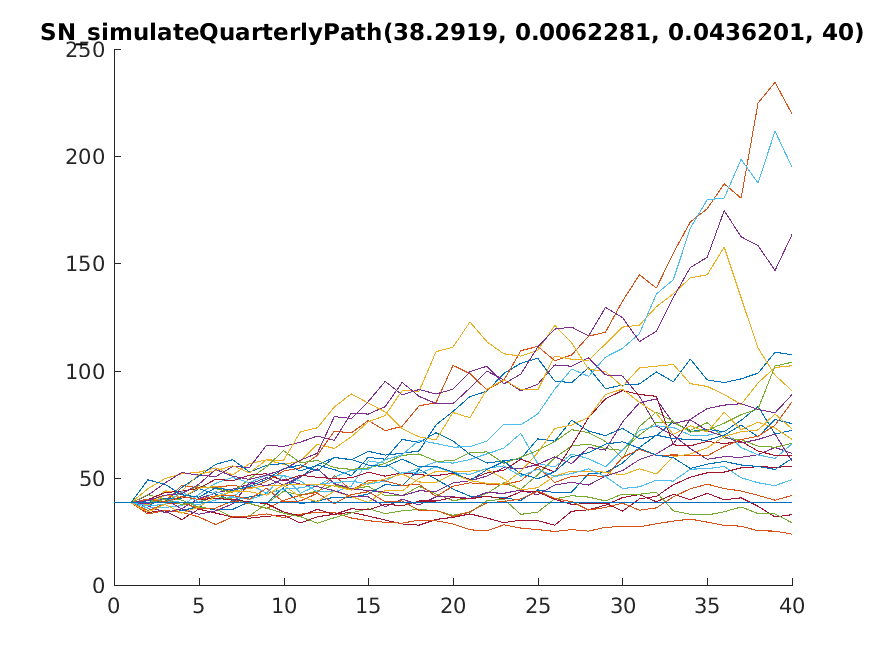
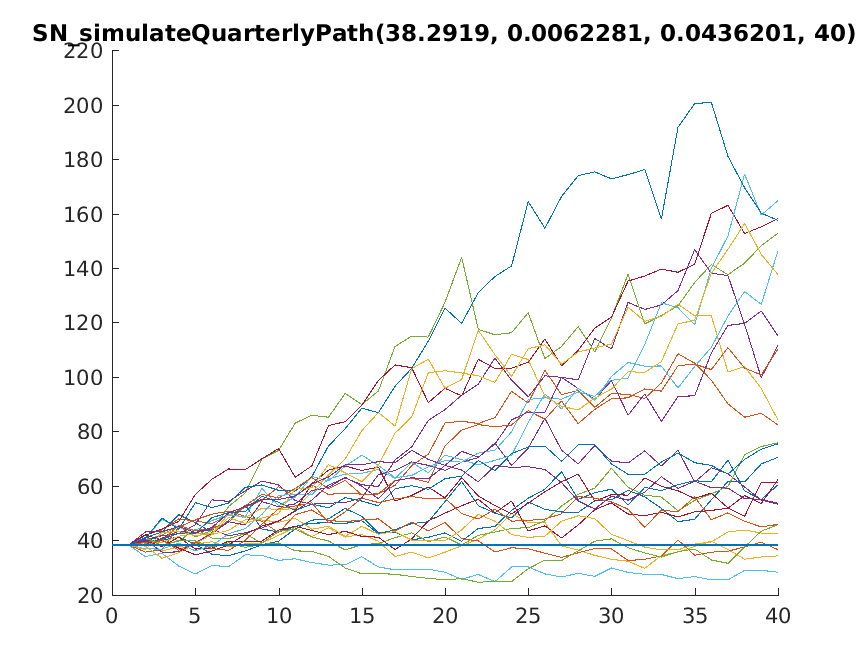
updated simulation functions and ex 13-14

diff --git a/1/compareSavingsAlternatives.m b/1/compareSavingsAlternatives.m
@@ -1,0 +1,37 @@
+function [ savingsYield, yieldFFund, yieldFPension, yieldsFundP, yieldsPensionP ] ...
+          = compareSavingsAlternatives( budget, quartals, N, binWidth, imageName )
+    load('Funds.mat')
+    
+    if exist('S', 'var') == 0
+        error('Price history vector S not found')
+    end
+    
+    savingsRate = 0.03; % 3%
+    [~, savingsYield] = SN_simulateSaving(budget, savingsRate, quartals);
+    sprintf('Spaarrekening rendement: %f', savingsYield)
+
+    yieldFFund = SN_simulateFundInvesting(budget, quartals, S(:,1), N);
+    sprintf('Aandelenonds VTI: min %f, max %f, avg %f', [min(yieldFFund), max(yieldFFund), mean(yieldFFund)])
+    yieldFPension = SN_simulatePensionFundInvesting(budget, quartals, S(:,1), N);
+    sprintf('Pensioenfonds VTI: min %f, max %f, avg %f', [min(yieldFPension), max(yieldFPension), mean(yieldFPension)])
+
+    yieldsFundP = SN_simulateFundInvesting(budget, quartals, S(:,2), N);
+    sprintf('Aandelenonds BNP: min %f, max %f, avg %f', [min(yieldsFundP), max(yieldsFundP), mean(yieldsFundP)])
+    yieldsPensionP = SN_simulatePensionFundInvesting(budget, quartals, S(:,2), N);
+    sprintf('Pensioenfonds BNP: min %f, max %f, avg %f', [min(yieldsPensionP), max(yieldsPensionP), mean(yieldsPensionP)])
+
+    fig = figure; hold all;
+    %binWidth = 0.02*max(max(yieldsPensionF), max(yieldsPensionP));
+    histogram(yieldFFund, 'BinWidth', binWidth, 'Normalization', 'probability');
+    histogram(yieldsFundP, 'BinWidth', binWidth, 'Normalization', 'probability');
+    legend('VTI Aandelen', 'BNP Aandelen');
+    saveas(fig, strcat(imageName, '-fund.png'));
+
+    fig = figure; hold all;
+    %binWidth = 0.02*max(max(yieldsPensionF), max(yieldsPensionP));
+    histogram(yieldFPension, 'BinWidth', binWidth, 'Normalization', 'probability');
+    histogram(yieldsPensionP, 'BinWidth', binWidth, 'Normalization', 'probability');
+    legend('VTI Pensioen', 'BNP Pensioen');
+    saveas(fig, strcat(imageName, '-pension.png'));
+end
+

diff --git a/1/SN_simulatePensionFundInvesting.m b/1/SN_simulatePensionFundInvesting.m
@@ -1,9 +1,9 @@
 function [ yields ] = SN_simulatePensionFundInvesting(budget, quartals, historicalPrice, N)
 % Monte Carlo simulation of periodical investments in a pension fund  
-
+    
     % estimate parameters of evolution of fund worth
     [mu, sigma] = SN_estimateParameters(historicalPrice);
-    yields = zeros(N, 1);
+    yields = zeros(quartals, 1);
     
     for q = 1:N
         % simulate path for worth of fund
@@ -11,7 +11,6 @@ function [ yields ] = SN_simulatePensionFundInvesting(budget, quartals, historic
         
         % simulate yield of investing in the fund
         [~, yield] = SN_simulatePensionFundInvestingPath(budget, pricePath, quartals);
-        
         yields(q) = yield;
     end
 end

diff --git a/1/SN_simulateFundInvestingPath.m b/1/SN_simulateFundInvestingPath.m
@@ -17,7 +17,7 @@ function [ path, yield ] = SN_simulateFundInvestingPath( budget, pricePath, quar
      
     for q = 2:quartals
         % each quartal, receive dividents on last quartal
-        dividend = pricePath(q-1) * quarterlyDividentYieldNet; 
+        dividend = path(q-1) * pricePath(q-1) * quarterlyDividentYieldNet; 
         
         % calculate net budget to buy shares
         budgetNet = (budget-transactionCosts) * (1-stockMarketTax);

diff --git a/1/ex15.m b/1/ex15.m
@@ -1,0 +1,9 @@
+% Simuleer het rendement voor elk van de 3 scenario’s na 40, 80, 120 en 160 kwartalen 
+% wanneer je spaarbudget steeds (250 + x) euro per kwartaal bedraagt, waarbij x de laatste 3 cijfers van je studentennummer zijn.
+
+close all;
+x = 689;
+
+for q = 40:40:160
+    compareSavingsAlternatives(250+x, q, 1000, 0.05, strcat('ex15-', q, '-quartals-'));
+end

diff --git a/1/ex14.m b/1/ex14.m
@@ -1,0 +1,9 @@
+% Simuleer het rendement voor elk van de 3 scenario's na 4 · (60 − x) kwartalen
+% wanneer je spaarbudget 750 euro per kwartaal bedraagt, waarbij x je leeftijd is.
+
+close all
+
+N = 100000;
+N = 1000;
+
+compareSavingsAlternatives(750, 4*(60-22), N, 0.2, 'ex14');

diff --git a/1/ex4.m b/1/ex4.m
@@ -6,6 +6,7 @@ load('Funds.mat')
 [mu, sigma] = SN_estimateParameters(S(:, 1));
 length = 60; % 60 months
 initialPrice = 114.55; % taken from http://www.morningstar.com/stocks/ARCX/VTI/quote.html
+initialPrice = initialPrice * 0.94; % convert to euro
 
 fig = figure;
 hold on;

diff --git a/1/SN_simulatePensionFundInvestingPath.m b/1/SN_simulatePensionFundInvestingPath.m
@@ -1,6 +1,5 @@
 function [ path, yield ] = SN_simulatePensionFundInvestingPath(budget, pricePath, quartals)
 % Simulate the path of a pension fund
-    
     investedCapital = SN_investedCapital(budget, quartals);
     
     runningCosts = 0.0125; % 1.25%

diff --git a/1/ex13.m b/1/ex13.m
@@ -1,0 +1,9 @@
+% Simuleer het rendement voor elk van de 3 scenario's na 40 kwartalen (10 jaar) 
+% wanneer je spaarbudget 750 euro per kwartaal bedraagt.
+
+close all
+
+N = 100000;
+N = 1000;
+
+compareSavingsAlternatives(750, 40, N, 0.05, '13');

diff --git a/1/SN_estimateParameters.m b/1/SN_estimateParameters.m
@@ -1,6 +1,6 @@
 function [ mu, sigma ] = SN_estimateParameters( s )
 % estimates parameters of log-yields of given price evolution vector
-
+    
     x = logYields(s);
                     
     sigma = std(x); 
